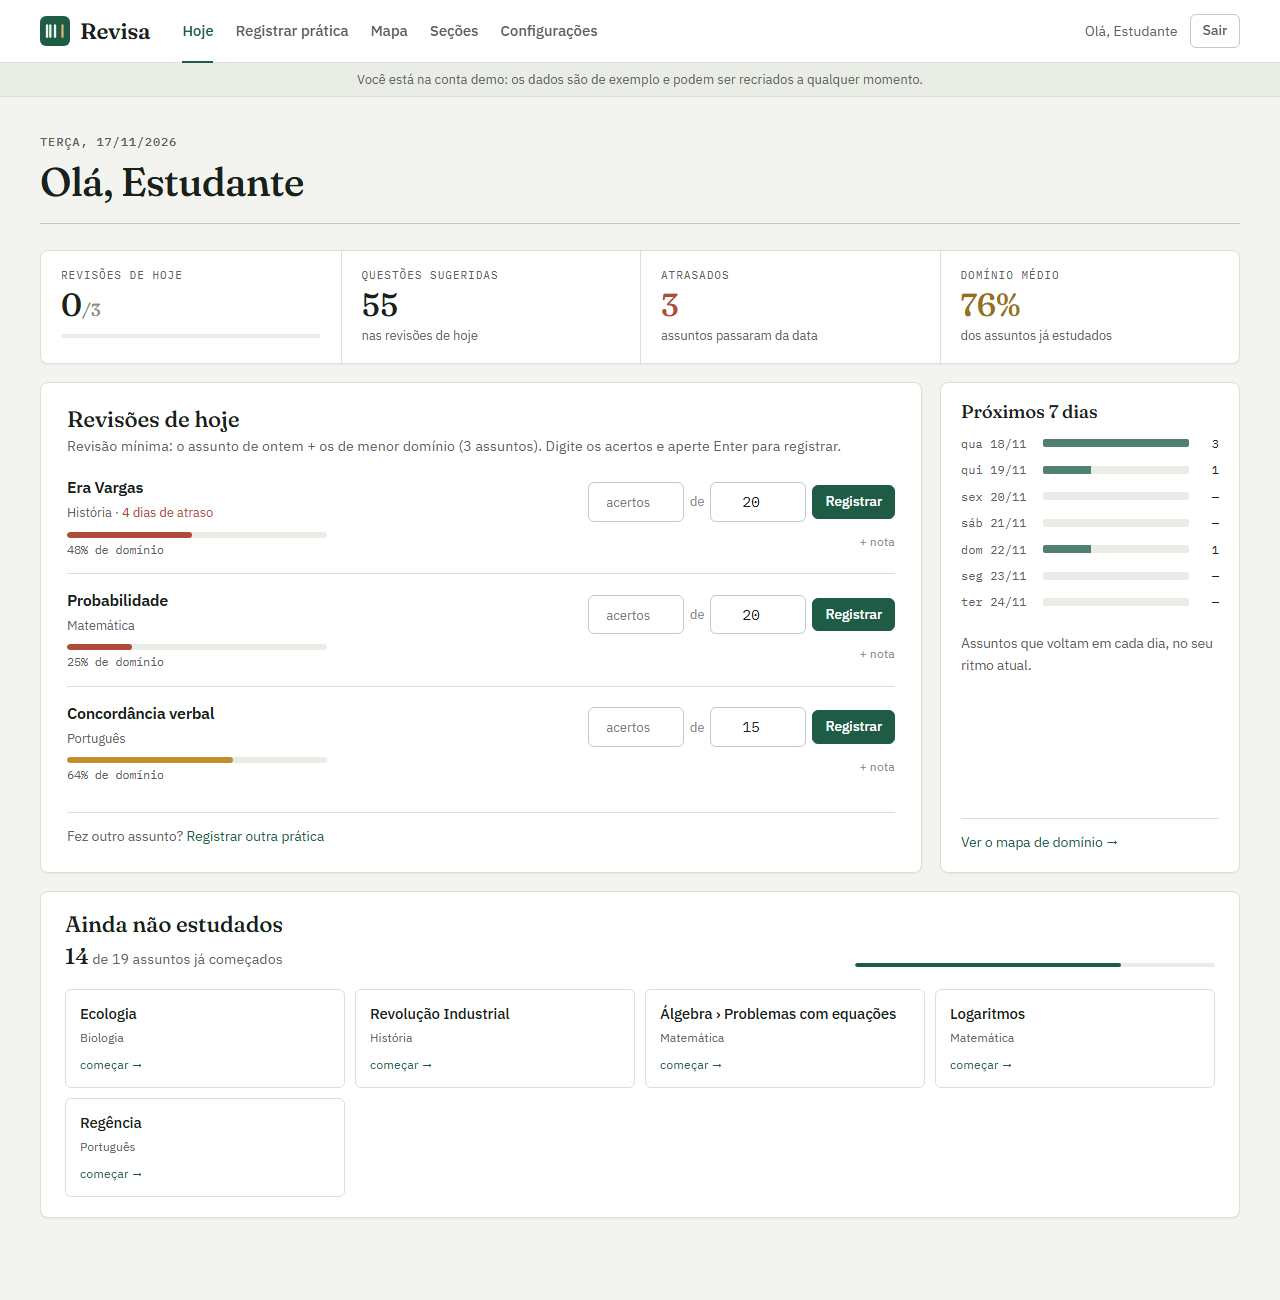
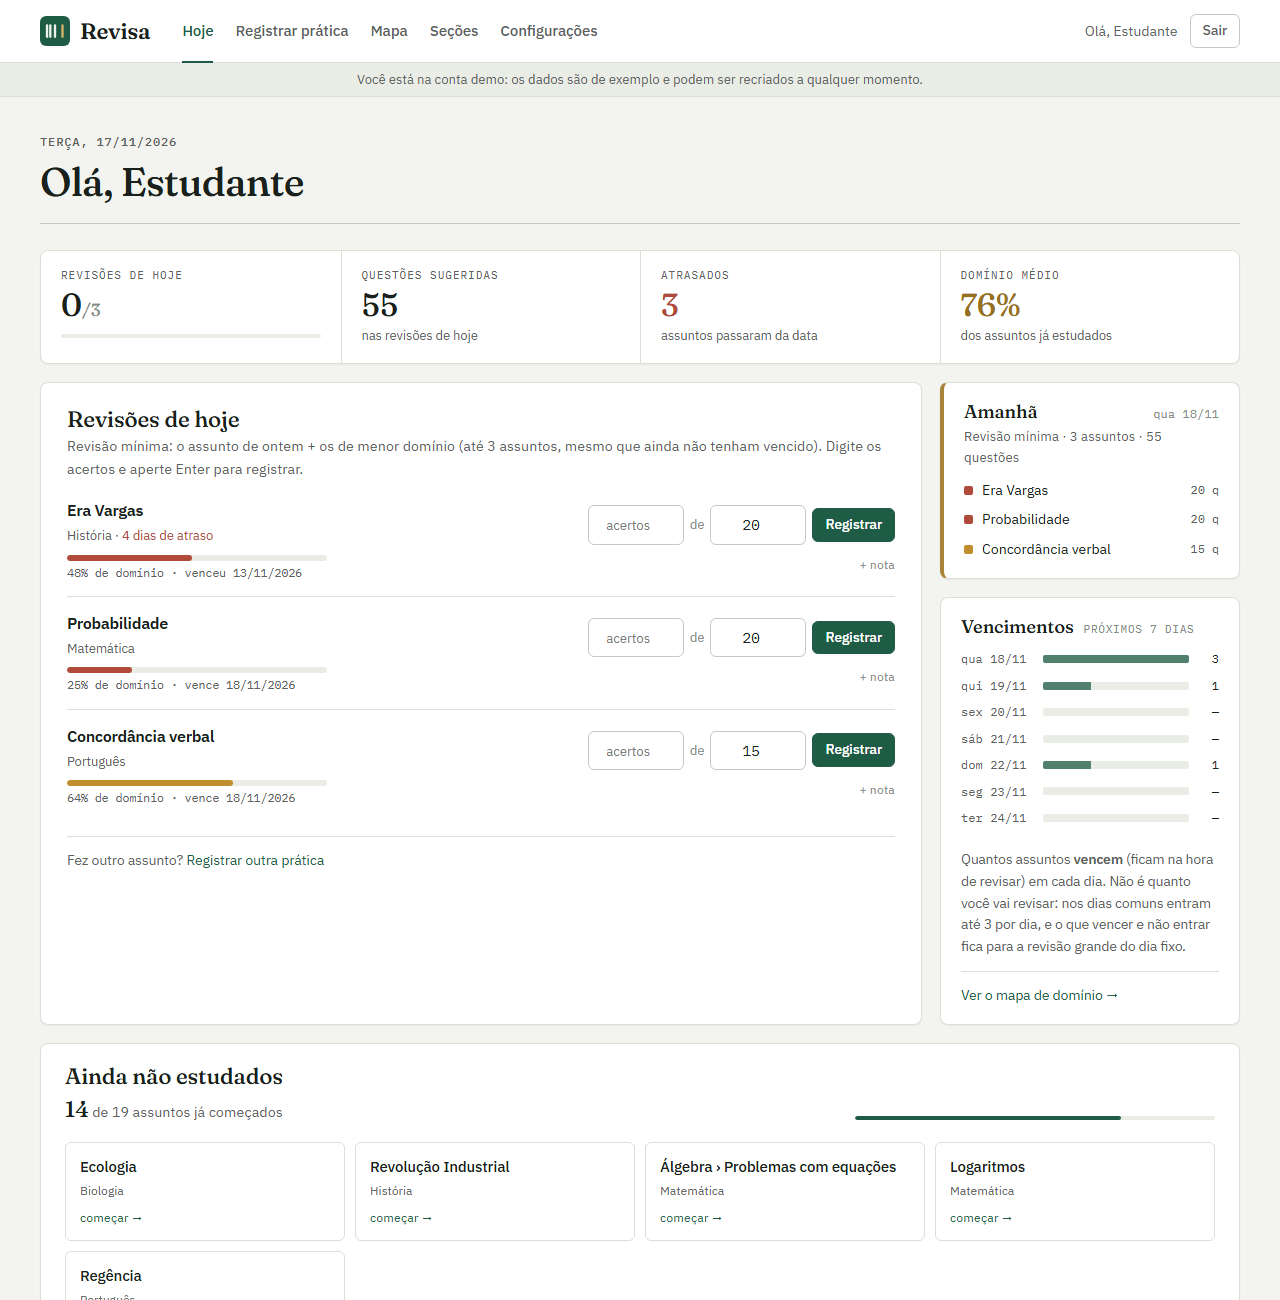
Prévia de amanhã, vencimentos explícitos e escolha pelos de menor domínio
- Cartão "Amanhã" no painel, com as mesmas regras da revisão do dia.
- Datas de revisão aparecem como vencimento ("vence"/"venceu"); o
  calendário virou "Vencimentos" e explica que não é quanto se revisa.
- Revisão mínima: se mais assuntos foram estudados ontem do que cabem no
  dia, entram primeiro os de menor domínio.
- README e prints atualizados.

diff --git a/templates/hoje.html b/templates/hoje.html
@@ -51,7 +51,7 @@
         <p class="sub">
           {% if tipo == 'grande' %}Dia de revisão grande: tudo que venceu + o que vence até {{ proximo_fixo | br }}.
           {% elif tipo == 'completa' %}Tudo que vence hoje ou está atrasado, do mais urgente para o menos.
-          {% elif tipo == 'diaria' %}Revisão mínima: o assunto de ontem + os de menor domínio ({{ cfg.revisao_minima }} assuntos).
+          {% elif tipo == 'diaria' %}Revisão mínima: o assunto de ontem + os de menor domínio (até {{ cfg.revisao_minima }} assuntos, mesmo que ainda não tenham vencido).
           {% else %}Sem revisão hoje.{% if proximo_fixo %} A próxima revisão grande é {{ NOMES_DIAS[proximo_fixo.weekday()] | lower }}, {{ proximo_fixo | br }}.{% endif %}
           {% endif %}
           {% if n_adiantadas %}<span class="adiantadas">Nada vencia hoje, então adiantamos {{ n_adiantadas }} revisão{{ 'ões' if n_adiantadas > 1 }} que estava{{ 'm' if n_adiantadas > 1 }} perto da data.</span>{% endif %}
@@ -71,7 +71,7 @@
             {% if e.atraso %} · <span class="txt-vermelho">{{ e.atraso }} dia{{ 's' if e.atraso > 1 }} de atraso</span>{% endif %}
             {% if item.adiantado %} · <span class="tag tag-leve">adiantado · vencia {{ e.proxima_revisao | br }}</span>{% endif %}</small>
           <span class="barra"><i class="{{ e.dominio_efetivo | cor }}" style="width: {{ (e.dominio_efetivo * 100) | round }}%"></i></span>
-          <small class="rev-dom">{{ e.dominio_efetivo | pct }} de domínio</small>
+          <small class="rev-dom">{{ e.dominio_efetivo | pct }} de domínio · {% if e.atraso %}venceu {{ e.proxima_revisao | br }}{% elif e.proxima_revisao == hoje_data %}vence hoje{% else %}vence {{ e.proxima_revisao | br }}{% endif %}</small>
         </div>
         {% if item.feito %}
         <div class="rev-feito">✓ {% for f in item.feito %}{{ f.acertos }}/{{ f.total }}{{ ', ' if not loop.last }}{% endfor %}</div>
@@ -113,8 +113,38 @@
 
   {# ---------------- coluna lateral ---------------- #}
   <aside class="lateral">
+    {# Prévia de amanhã: mesmas regras de hoje, já contando o que foi feito hoje #}
+    <section class="bloco amanha">
+      <div class="amanha-cab">
+        <h2 class="lat-tit">Amanhã</h2>
+        <span class="amanha-data">{{ NOMES_DIAS[amanha.data.weekday()][:3] | lower }} {{ amanha.data.strftime('%d/%m') }}</span>
+      </div>
+      <p class="amanha-tipo">
+        {% if amanha.tipo == 'grande' %}Revisão grande (dia fixo)
+        {% elif amanha.tipo == 'completa' %}Tudo que vencer
+        {% elif amanha.tipo == 'diaria' %}Revisão mínima
+        {% else %}Sem revisão{% endif %}
+        {% if amanha.itens %} · {{ amanha.itens | length }} assunto{{ 's' if amanha.itens | length > 1 }} · {{ amanha.questoes }} questões{% endif %}
+      </p>
+      {% if amanha.itens %}
+      <ul class="amanha-lista">
+        {% for item in amanha.itens[:5] %}{% set e = item.estado %}
+        <li>
+          <i class="ponto {{ e.dominio_efetivo | cor }}"></i>
+          <span>{{ item.assunto.nome }}{% if item.adiantado %} <small>(adiantado)</small>{% endif %}</span>
+          <small>{{ e.questoes }} q</small>
+        </li>
+        {% endfor %}
+      </ul>
+      {% if amanha.itens | length > 5 %}<p class="mini">e mais {{ amanha.itens | length - 5 }}.</p>{% endif %}
+      {% else %}
+      <p class="mini">Nada para revisar amanhã.</p>
+      {% endif %}
+      {% if amanha.pausadas %}<p class="mini">Amanhã não é dia de: {{ amanha.pausadas | join(', ') }}.</p>{% endif %}
+    </section>
+
     <section class="bloco">
-      <h2 class="lat-tit">Próximos 7 dias</h2>
+      <h2 class="lat-tit">Vencimentos <small class="lat-sub">próximos 7 dias</small></h2>
       <ul class="agenda">
         {% for p in proximos %}
         <li>
@@ -124,7 +154,10 @@
         </li>
         {% endfor %}
       </ul>
-      <p class="mini">Assuntos que voltam em cada dia, no seu ritmo atual.</p>
+      <p class="mini">Quantos assuntos <b>vencem</b> (ficam na hora de revisar) em cada dia. Não é quanto você vai revisar:
+        {% if cfg.modo in ('diaria', 'ambos') %}nos dias comuns entram até {{ cfg.revisao_minima }} por dia{% if cfg.modo == 'ambos' %}, e o que vencer e não entrar fica para a revisão grande do dia fixo{% else %}, começando pelos de menor domínio{% endif %}.
+        {% elif cfg.modo == 'fixa' %}tudo isso entra na revisão grande do dia fixo.
+        {% else %}no seu modo, cada um entra na revisão no dia em que vence.{% endif %}</p>
       <a class="lat-rodape" href="{{ url_for('mapa') }}">Ver o mapa de domínio →</a>
     </section>
 

diff --git a/static/css/estilo.css b/static/css/estilo.css
@@ -564,3 +564,19 @@ button.mr.on span { color: var(--acento); font-weight: 600; }
   .mapa-lista .lista-mapa li { grid-template-columns: 1fr auto; }
   .mapa-lista .status { order: 4; justify-self: start; }
 }
+
+/* cartão "Amanhã" */
+.lateral { gap: 18px; }
+.lateral > .bloco { height: auto; }
+.lateral > .bloco:last-child { flex: 1; }
+.amanha { border-left: 4px solid var(--latao); }
+.amanha-cab { display: flex; align-items: baseline; justify-content: space-between; gap: 8px; }
+.amanha-cab .lat-tit { margin-bottom: 4px; }
+.amanha-data { font-family: var(--mono); font-size: .76rem; color: var(--texto-3); }
+.amanha-tipo { margin: 0 0 10px; font-size: .84rem; color: var(--texto-2); }
+.amanha-lista { list-style: none; margin: 0; padding: 0; display: grid; gap: 7px; }
+.amanha-lista li { display: grid; grid-template-columns: 10px 1fr auto; gap: 8px; align-items: center; font-size: .88rem; }
+.amanha-lista .ponto { margin: 0; }
+.amanha-lista small { font-family: var(--mono); font-size: .74rem; }
+.lat-sub { font-family: var(--mono); font-size: .7rem; font-weight: 400; color: var(--texto-3); text-transform: uppercase; letter-spacing: .06em; margin-left: 6px; }
+.lm-data { font-size: .8rem; }

diff --git a/templates/mapa.html b/templates/mapa.html
@@ -46,7 +46,7 @@
         </span>
         <span class="lm-pct">{{ e.dominio_efetivo | pct }}</span>
         <span class="status status-{{ item.status }}">{{ {'agora': 'Revisar agora', 'esperar': 'Pode esperar', 'dominado': 'Dominado'}[item.status] }}</span>
-        <span class="lm-data {{ 'atrasado' if e.atraso }}">{{ e.proxima_revisao | br }}<small>{{ e.proxima_revisao | relativo }}</small></span>
+        <span class="lm-data {{ 'atrasado' if e.atraso }}" title="Vencimento: dia em que o assunto fica na hora de revisar">{{ 'venceu' if e.atraso else 'vence' }} {{ e.proxima_revisao | br }}<small>{{ e.proxima_revisao | relativo }}</small></span>
       </li>
       {% endfor %}
     </ul>

diff --git a/templates/historico.html b/templates/historico.html
@@ -61,7 +61,7 @@
     <small>{% if estado.dominio_efetivo < estado.dominio %}era {{ estado.dominio | pct }} antes do atraso{% else %}média das últimas 3{% endif %}</small>
   </div>
   <div class="stat">
-    <span>Próxima revisão</span>
+    <span>Vence em</span>
     <b class="{{ 'txt-vermelho' if estado.atraso }}">{{ estado.proxima_revisao | br }}</b>
     <small>{{ estado.proxima_revisao | relativo }} · intervalo de {{ estado.intervalo }} dias</small>
     {% if estado.em_aprendizado %}<small class="tag tag-leve fase">fase de aprendizado · prática {{ estado.n_sessoes }} de {{ estado.fase_total }}</small>{% endif %}

diff --git a/servicos.py b/servicos.py
@@ -151,18 +151,13 @@ def estados(db, uid: int, dia: date, cfg: dict, antes_de: date | None = None,
 # Tela "Hoje"
 # ---------------------------------------------------------------------------
 
-def montar_hoje(db, uid: int, dia: date) -> dict:
+def selecao_do_dia(db, uid: int, dia: date, cfg: dict, assuntos: dict) -> dict:
     """
-    Monta o painel da tela Hoje.
-
-    A seleção da revisão usa só as sessões ANTERIORES a hoje, para que a lista
-    não mude enquanto o usuário registra resultados ao longo do dia. Os
-    assuntos já feitos hoje aparecem marcados como concluídos.
+    Lista de revisão de um dia, com as mesmas regras da tela Hoje.
+    Usa só as práticas ANTERIORES ao dia: para hoje, a lista não muda enquanto
+    o usuário registra resultados; para amanhã, já conta o que foi feito hoje.
     """
-    cfg = carregar_config(db, uid)
-    assuntos = {a["id"]: a for a in listar_folhas(db, uid)}   # grupos não entram na revisão
     est = estados(db, uid, dia, cfg, antes_de=dia, ids=set(assuntos))
-
     tipo = L.tipo_de_revisao(cfg["modo"], cfg["dias_fixos"], dia)
     proximo_fixo = L.proximo_dia_fixo(dia, cfg["dias_fixos"])
 
@@ -170,14 +165,14 @@ def montar_hoje(db, uid: int, dia: date) -> dict:
     ids_ontem = [r["assunto_id"] for r in db.execute(
         "SELECT assunto_id FROM estudo_do_dia WHERE usuario_id = ? AND data = ? ORDER BY id",
         (uid, ontem))]
-    # Também conta como "estudado ontem" o assunto cuja primeira sessão foi ontem.
+    # Também conta como "estudado ontem" o assunto cuja primeira prática foi ontem.
     for r in db.execute(
         """SELECT assunto_id FROM sessoes WHERE usuario_id = ?
            GROUP BY assunto_id HAVING MIN(data) = ?""", (uid, ontem)):
         if r["assunto_id"] not in ids_ontem:
             ids_ontem.append(r["assunto_id"])
 
-    # Seções que não são estudadas hoje ficam fora da revisão do dia.
+    # Seções que não são estudadas no dia ficam fora da revisão.
     pausadas = {a["materia"] for a in assuntos.values() if not L.estuda_no_dia(dia, a["dias_materia"])}
     est = {aid: e for aid, e in est.items() if L.estuda_no_dia(dia, assuntos[aid]["dias_materia"])}
 
@@ -195,6 +190,36 @@ def montar_hoje(db, uid: int, dia: date) -> dict:
     if tipo and not selecao and cfg.get("adiantar", 1) > 0:
         selecao = L.selecionar_adiantadas(list(est.values()), dia, cfg["adiantar"])
         adiantadas = {e.assunto_id for e in selecao}
+
+    return {"tipo": tipo, "proximo_fixo": proximo_fixo, "selecao": [e for e in selecao if e.assunto_id in assuntos],
+            "adiantadas": adiantadas, "pausadas": pausadas}
+
+
+def montar_hoje(db, uid: int, dia: date) -> dict:
+    """
+    Monta o painel da tela Hoje (e a prévia de amanhã).
+
+    A seleção da revisão usa só as sessões ANTERIORES a hoje, para que a lista
+    não mude enquanto o usuário registra resultados ao longo do dia. Os
+    assuntos já feitos hoje aparecem marcados como concluídos.
+    """
+    cfg = carregar_config(db, uid)
+    assuntos = {a["id"]: a for a in listar_folhas(db, uid)}   # grupos não entram na revisão
+    sel = selecao_do_dia(db, uid, dia, cfg, assuntos)
+    tipo, proximo_fixo, selecao = sel["tipo"], sel["proximo_fixo"], sel["selecao"]
+    adiantadas, pausadas = sel["adiantadas"], sel["pausadas"]
+
+    # Prévia de amanhã: mesmas regras, já contando as práticas de hoje.
+    amanha_dia = dia + timedelta(days=1)
+    sel_am = selecao_do_dia(db, uid, amanha_dia, cfg, assuntos)
+    amanha = {
+        "data": amanha_dia,
+        "tipo": sel_am["tipo"],
+        "itens": [{"assunto": assuntos[e.assunto_id], "estado": e,
+                   "adiantado": e.assunto_id in sel_am["adiantadas"]} for e in sel_am["selecao"]],
+        "questoes": sum(e.questoes for e in sel_am["selecao"]),
+        "pausadas": sorted(sel_am["pausadas"], key=chave_ordem),
+    }
 
     # Sessões já registradas hoje
     feitas_hoje: dict[int, list] = defaultdict(list)
@@ -246,6 +271,7 @@ def montar_hoje(db, uid: int, dia: date) -> dict:
         "tem_assuntos": bool(assuntos),
         "pausadas": sorted(pausadas, key=chave_ordem),
         "n_adiantadas": len(adiantadas),
+        "amanha": amanha,
     }
 
 

diff --git a/tests/test_app.py b/tests/test_app.py
@@ -180,14 +180,14 @@ class TestApp(unittest.TestCase):
         # sessão ruim há 10 dias: vencida, entraria na revisão de hoje
         self.post("/sessoes/nova", {"assunto_id": "1", "data": (hoje - timedelta(days=10)).isoformat(),
                                     "acertos": "2", "total": "10"}, "/sessoes/nova")
-        self.assertIn("Intervalos", self.c.get("/hoje").get_data(as_text=True).split("Próximos 7 dias")[0])
+        self.assertIn("Intervalos", self.c.get("/hoje").get_data(as_text=True).split('<aside class="lateral">')[0])
         # a seção passa a ser estudada só em um dia que não é hoje
         outro_dia = str((hoje.weekday() + 1) % 7)
         self.post("/materias/1/editar", {"nome": "Música", "frequencia": "dias", "dias_estudo": outro_dia},
                   "/materias")
         html = self.c.get("/hoje").get_data(as_text=True)
         self.assertIn("Hoje não é dia de: Música", html)
-        self.assertNotIn("Intervalos", html.split("Próximos 7 dias")[0])
+        self.assertNotIn("Intervalos", html.split('<aside class="lateral">')[0])
         # exportar leva os dias da seção
         self.assertEqual(self.c.get("/configuracoes/exportar").get_json()["materias"][0]["dias_estudo"],
                          [int(outro_dia)])
@@ -220,6 +220,26 @@ class TestApp(unittest.TestCase):
         self.assertIn("Algebra", mapa)
         self.assertNotIn("Geometria", mapa)
         self.assertIn("1 assunto ainda não começado", mapa)
+
+    def test_previa_de_amanha(self):
+        hoje = S.hoje()
+        self.criar_usuario("am@am.com")
+        self.post("/configuracoes", {"ritmo": "leve", "aprendizado": "degraus", "teto_dias": "30",
+                                     "modo": "diaria", "revisao_minima": "2", "questoes_modo": "auto",
+                                     "questoes_fixas": "10", "adiantar": "0"}, "/configuracoes")
+        self.post("/materias/nova", {"nome": "SAT"}, "/materias")
+        for nome in ("Alfa", "Beta", "Gama"):
+            self.post("/assuntos/novo", {"nome": nome, "materia_id": "1"}, "/materias")
+        # três assuntos começados hoje: 100%, 40%, 60%
+        for aid, ac in (("1", "10"), ("2", "4"), ("3", "6")):
+            self.post("/sessoes/nova", {"assunto_id": aid, "data": hoje.isoformat(),
+                                        "acertos": ac, "total": "10"}, "/sessoes/nova")
+        html = self.c.get("/hoje").get_data(as_text=True)
+        amanha = html.split('class="bloco amanha"')[1].split("</section>")[0]
+        self.assertIn("Beta", amanha)      # 40%
+        self.assertIn("Gama", amanha)      # 60%
+        self.assertNotIn("Alfa", amanha)   # 100%: não cabe no limite de 2
+        self.assertIn("Vencimentos", html)
 
     def test_pwa(self):
         r = self.c.get("/manifest.webmanifest")

diff --git a/logica.py b/logica.py
@@ -410,12 +410,15 @@ def selecionar_revisao_diaria(
     escolhidos: list[EstadoAssunto] = []
     usados: set[int] = set()
 
-    for aid in ids_estudados_ontem:
+    # Se mais assuntos foram estudados ontem do que cabem no dia, entram
+    # primeiro os de menor domínio (os que mais precisam).
+    de_ontem = sorted({por_id[a].assunto_id: por_id[a] for a in ids_estudados_ontem if a in por_id}.values(),
+                      key=lambda e: (e.dominio_efetivo, -e.prioridade, e.assunto_id))
+    for e in de_ontem:
         if len(escolhidos) >= n:
             break
-        if aid in por_id and aid not in usados:
-            escolhidos.append(por_id[aid])
-            usados.add(aid)
+        escolhidos.append(e)
+        usados.add(e.assunto_id)
 
     restantes = sorted(
         (e for e in estados if e.assunto_id not in usados),

diff --git a/tests/test_logica.py b/tests/test_logica.py
@@ -263,6 +263,10 @@ class TestSelecaoDiaria(unittest.TestCase):
         sel = L.selecionar_revisao_diaria(self.estados, [], 3)
         self.assertEqual(self.ids(sel), [2, 3, 4])
 
+    def test_muitos_de_ontem_pega_os_de_menor_dominio(self):
+        sel = L.selecionar_revisao_diaria(self.estados, [1, 4, 3], 2)
+        self.assertEqual(self.ids(sel), [3, 4])   # 50% e 70%, não o de 90%
+
     def test_n_maior_que_disponivel(self):
         self.assertEqual(len(L.selecionar_revisao_diaria(self.estados, [1], 10)), 4)
 

diff --git a/README.md b/README.md
@@ -16,7 +16,7 @@ Roda localmente (um clique no `iniciar.bat`) ou online no PythonAnywhere.
 
 - **Contas de usuário**: cadastro, login e logout, senhas com hash. Cada usuário só vê e edita os próprios dados (checado no backend em todas as rotas).
 - **Onboarding** no primeiro acesso, antes de entrar no app: ritmo de estudo, fase de aprendizado, máximo de dias sem revisão, modo de revisão, dia(s) fixo(s), revisão mínima diária e questões por assunto.
-- **Hoje (painel)**: números do dia (revisões feitas, questões sugeridas, atrasados, domínio médio), a lista de revisões com registro direto na linha (acertos + Enter), a agenda dos próximos 7 dias e o progresso nos assuntos ainda não começados.
+- **Hoje (painel)**: números do dia (revisões feitas, questões sugeridas, atrasados, domínio médio), a lista de revisões com registro direto na linha (acertos + Enter), uma prévia de **amanhã**, os **vencimentos** dos próximos 7 dias e o progresso nos assuntos ainda não começados.
 - **Registrar prática**: formulário rápido (seção → assunto, data, acertos, total, observação).
 - **Mapa de domínio**: uma lista só, por seção, com barra colorida (vermelho < 50%, amarelo 50–84%, verde ≥ 85%) e o status de cada assunto. Os contadores do topo (*Revisar agora*, *Pode esperar*, *Dominado*) servem de filtro.
 - **Histórico do assunto**: lista de práticas (editar/excluir) e gráfico de linha da % de acerto (Chart.js).
